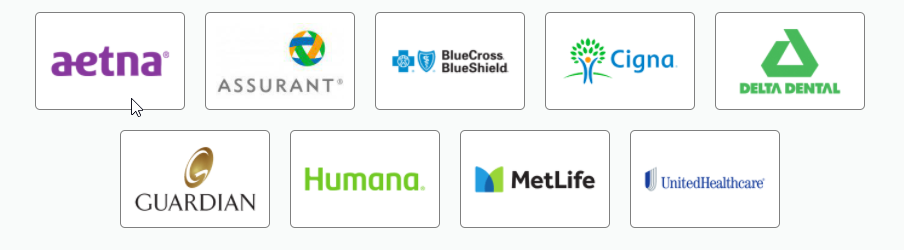
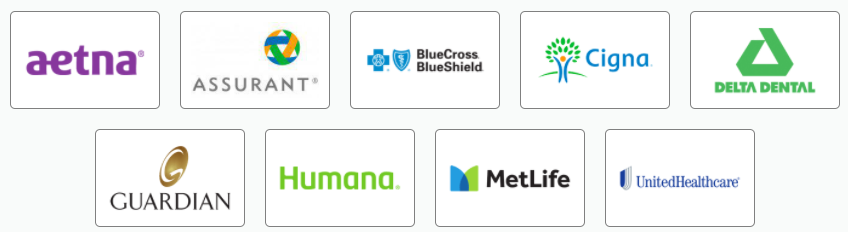
image fix

diff --git a/index.html b/index.html
@@ -965,7 +965,7 @@
       <div class="container">
         <div class="row">
           <div class="col-sm">
-            <img src="dctr.png" alt="" class="zoom" />
+            <img src="1.png" alt="" class="zoom" />
             <br />
             <br />
             <h4 style="color: rgb(20, 121, 0); text-align: center">
@@ -1085,8 +1085,6 @@
         aesthetics, and self-esteem.
       </div>
     </div>
-    <br />
-    <br />
 
     <div
       style="
@@ -1094,8 +1092,11 @@
         text-align: center;
         font-family: 'Merriweather', serif;
         font-weight: 500;
+        background-color: #f9fbfa;
       "
     >
+      <br />
+      <br />
       INSURANCE DETAILS
       <br />
       <br />
@@ -1114,40 +1115,45 @@
 
       <img src="insurance.png" alt="" />
     </div>
-    <br />
-    <br />
 
-    <button
-      type="button"
-      class="btn btn-outline-secondary"
-      style="
-        font-weight: 500;
-        margin-left: 40%;
+    <div style="background-color: #f9fbfa">
+      <br />
+      <br />
+      <br />
 
-        padding: 10px;
-        width: 300px;
-        font-size: larger;
-      "
-    >
-      Learn more
-    </button>
-    <br />
-    <br />
-    <br />
-    <br />
-    <br />
-    <br />
+      <button
+        type="button"
+        class="btn btn-outline-secondary"
+        style="
+          font-weight: 500;
+          margin-left: 40%;
 
-    <div class="container"><hr /></div>
+          padding: 10px;
+          width: 300px;
+          font-size: larger;
+        "
+      >
+        Learn more
+      </button>
+    </div>
+    <div style="background-color: #f9fbfa">
+      <br />
+      <br />
+      <br />
+      <br />
+      <br />
+      <br />
+      <div class="container"><hr /></div>
 
-    <div class="footer" style="margin-left: 35%">
-      <p style="float: left; color: rgb(138, 137, 137)">privacy policy</p>
-      <p style="float: left; padding-left: 50px; color: rgb(138, 137, 137)">
-        Terms & Conditions
-      </p>
-      <p style="float: left; padding-left: 50px; color: rgb(138, 137, 137)">
-        accessebility statement
-      </p>
+      <div class="footer" style="margin-left: 35%">
+        <p style="float: left; color: rgb(138, 137, 137)">privacy policy</p>
+        <p style="float: left; padding-left: 50px; color: rgb(138, 137, 137)">
+          Terms & Conditions
+        </p>
+        <p style="float: left; padding-left: 50px; color: rgb(138, 137, 137)">
+          accessebility statement
+        </p>
+      </div>
     </div>
 
     <br />
